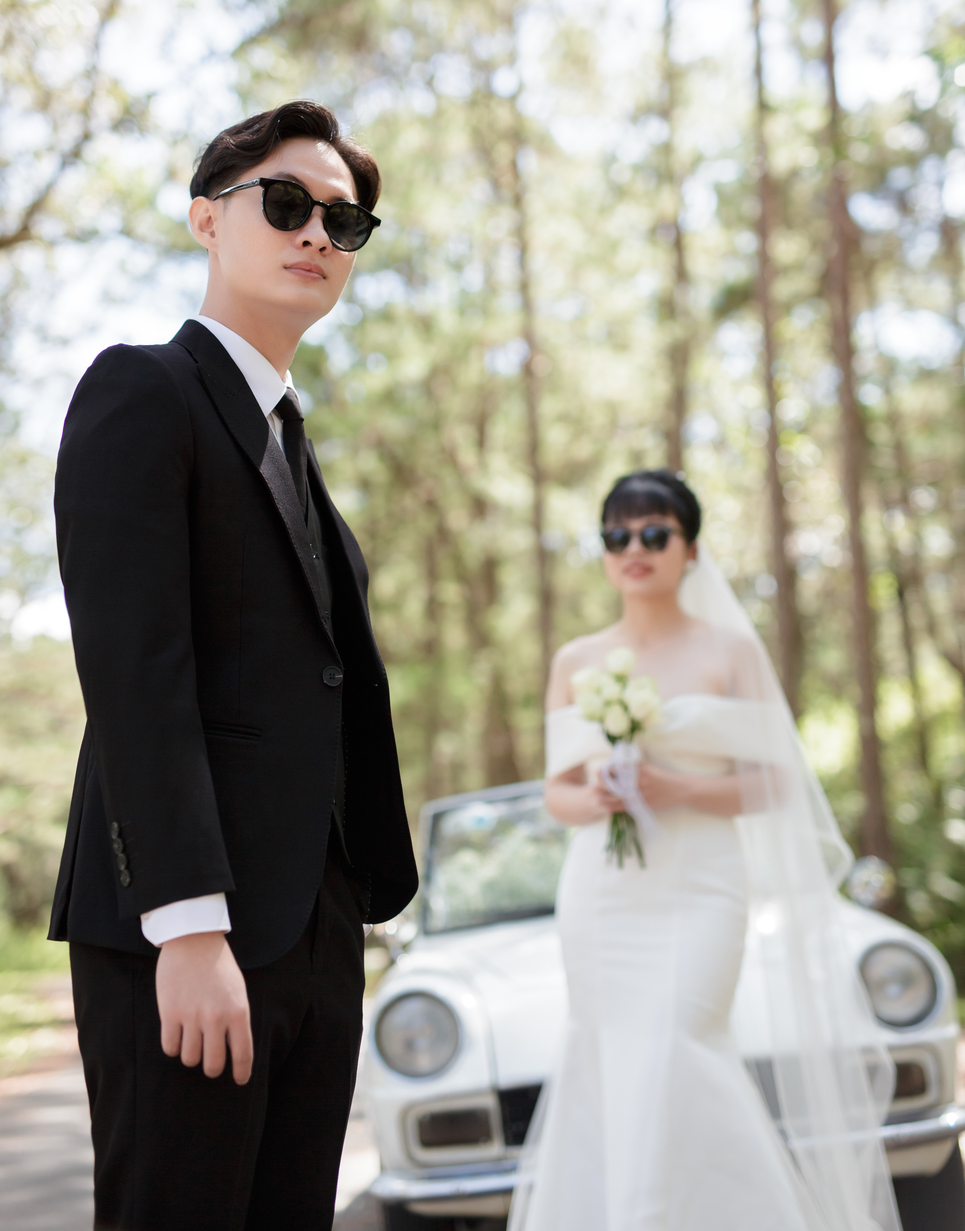
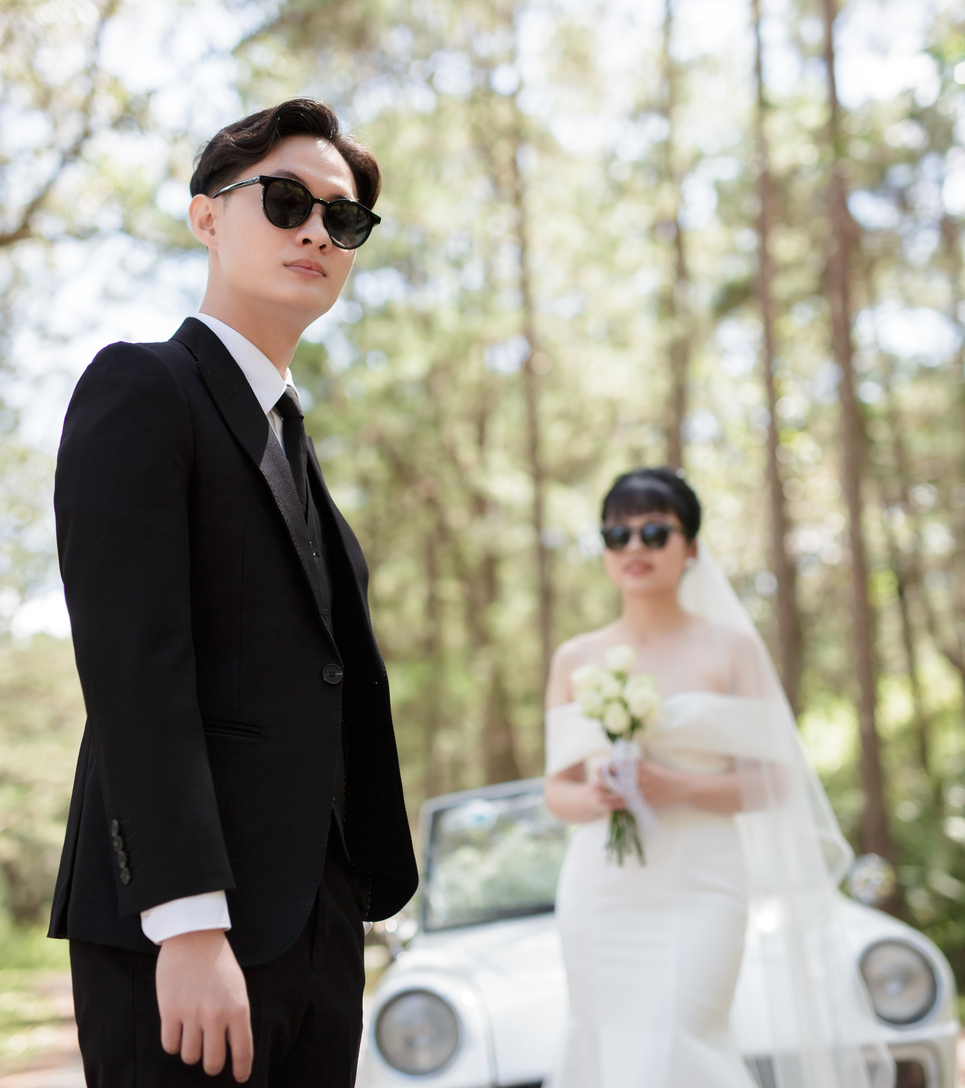
dasdas

diff --git a/index.html b/index.html
@@ -255,9 +255,12 @@
             </h2>
 
             <div>
-                <div class="story_item row" style="margin: 0; height: 900px; width: 100%; background-image: url('img/CA.JPG'); background-size:cover;  background-repeat: no-repeat;" >
-                    <div class="col-lg-3"></div>
-                    <div class="card0 col-lg-3" >
+                <div class="story_item row">
+                    <!-- style="margin: 0; height: 900px; width: 100%; background-image: url('img/CA.JPG'); background-size:cover;  background-repeat: no-repeat;" -->
+                    <img src="img/CA.JPG" class="bg">
+
+                    <div class="col-lg-3 "></div>
+                    <div class="card0 col-lg-3" style="top: -380px;">
                         <h1 class="heading">My Love Story</h1>
                         <p class="desc">"Chúng mình có duyên gặp nhau khi cùng tham gia khoá học tiếng anh và tất nhiên
                             mình là người để ý vợ mình trước gòi . May mắn khi cả lớp có mỗi vợ mình dùng mail tên thật
@@ -277,11 +280,13 @@
             </div>
 
             <div>
-                <div class="story_item row" style="margin: 0; height: 1500px; width: 100%; background-image: url('img/NC2.JPG'); background-size:cover;  background-repeat: no-repeat;">
+                <div class="story_item row">
+                    <!-- style="margin: 0; height: 1500px; width: 100%; background-image: url('img/NC2.JPG'); background-size:cover;  background-repeat: no-repeat;"> -->
+                    <img src="img/NC2.JPG" class="bg" >
 
-                    <div class="col-lg-6"></div>
+                    <div class="col-lg-6 col-sm-2"></div>
 
-                    <div class="card col-lg-6" style="margin: 0;">
+                    <div class="card col-lg-6 col-sm-6" style="top: -1480px; margin: 0;" >
                         <!-- <h1 class="heading">Nguyen Du Nguyen Chuong</h1> -->
                         <p class="desc">"Tôi từng đọc ở đâu đó 1 câu nói như thế này "đôi giày đẹp nhất là đôi giày vừa
                             vặn với bạn nhất", đối với tôi, anh có thể không phải là chàng trai xuất sắc nhất mà tôi
@@ -307,10 +312,13 @@
             </div>
 
             <div>
-                <div class="story_item row"  style="margin: 0; height: 1500px; width: 100%; background-image: url('img/VA2.JPG'); background-size:cover;  background-repeat: no-repeat;">
-                    <div class="col-lg-1"></div>
+                <div class="story_item row">
+                    <!-- style="margin: 0; height: 1500px; width: 100%; background-image: url('img/VA2.JPG'); background-size:cover;  background-repeat: no-repeat;"> -->
+                    <img src="img/VA2.JPG" class="bg">
 
-                    <div class="card2 col-lg-2" style="margin: 0;">
+                    <div class="col-lg-1 col-sm-2"></div>
+
+                    <div class="card2 col-lg-2 col-sm-6"  style="top: -880px; margin: 0;">
                         <!-- <h1 class="heading">Nguyen Du Nguyen Chuong</h1> -->
                         <p class="desc">"Vợ tôi hả ? Một cô gái xinh xắn đáng iu hay cười và đảm đang mà đến giờ tôi vẫn
                             chưa hiểu vì sao tôi lại có thể chinh phục được vợ mình . Cô ấy là người lo lắng quan tâm
@@ -321,7 +329,7 @@
                         <p>- Chuong Nguyen -</h1>
 
                     </div>
-
+                
                 </div>
                 <div>
 

diff --git a/css/style.css b/css/style.css
@@ -1022,7 +1022,7 @@ header {
 
 .story_item {
   position: relative;
-  height: 1000 ;
+  height: auto;
 }
 
 .story_item img {
@@ -1843,12 +1843,17 @@ header {
 
   .when_where_box {
     flex-direction: column-reverse;
-    justify-content: center;
+    justify-content: space-between;
     align-items: center;
+    height: 1280px;
+  }
+  .when_where {
+    height: 1500px;
   }
 
+
   .story_item {
-    height: 1200px;
+    height: auto;
 }
 
   .story_item img{
@@ -1856,22 +1861,28 @@ header {
    
    
   }
-
-  .card0 {
+  .home_intro {
+    background-attachment: scroll;
+    background-position-x: 98%;
+    
   }
 
+  .card0 {
+    width: 100%;
+  }
   .card {
-    margin: 0 0 0 2%;
+    width: 100%;
 
   }
 
   .card2 
   {
-    margin: 0 0 0 2%;
+    width: 100%; 
 
   }
   .home_intro {
     background-attachment: scroll;
+    background-position-x: 70%;
   }
 
   .hotel {
@@ -1915,9 +1926,14 @@ header {
   }
 
   .story_item {
-    height: 1200px;
+    height: auto;
 }
 
+  .home_intro {
+  background-attachment: scroll;
+  background-position-x: 68%;
+  
+}
   .story_item img{
     height: auto;
    
@@ -1925,13 +1941,27 @@ header {
   }
 
   .card0 {
-    margin-left: 0;
+    width: 100%;
+  }
+  .card {
+    width: 100%;
+
+  }
+
+  .card2 
+  {
+    width: 100%;
+
   }
 
   .when_where_box {
     flex-direction: column-reverse;
-    justify-content: center;
+    justify-content: space-between;
     align-items: center;
+    height: 1580px;
+  }
+  .when_where {
+    height: 1800px;
   }
 
   .owl-controls {
@@ -2137,12 +2167,11 @@ a.maplink:visited {
 .card0 {
   background: #ffffffa0;
   width: 100%;
-  max-width: 700px;
+  max-width: 778px;
   padding: 20px;
   border-radius: 10px;
   /* position: absolute; */
-
-  top: 530px;
+  top: 0px;
   transition: ease 0.3s;
   font: 22px/23px Great Vibes;
 }
@@ -2150,13 +2179,13 @@ a.maplink:visited {
 .card {
   background: #ffffffa0;
   width: 100%;
-  max-width: 400px;
+  max-width: 520px;
   padding: 20px;
   border-radius: 10px;
   /* position: absolute;
   top: 300px;
   left: 840px; */
-  top: 100px;
+  top: 0px;
 
   transition: ease 0.3s;
     font: 22px/23px Great Vibes;
@@ -2167,14 +2196,14 @@ a.maplink:visited {
 .card2 {
   background: #ffffffa0;
   width: 100%;
-  max-width: 400px;
+  max-width: 546px;
   padding: 20px;
   border-radius: 10px;
   /* position: absolute;
   top: 300px;
   left: 100px; */
 
-  top: 200px;
+  top: 0px;
 
   transition: ease 0.3s;
     font: 22px/23px Great Vibes;
